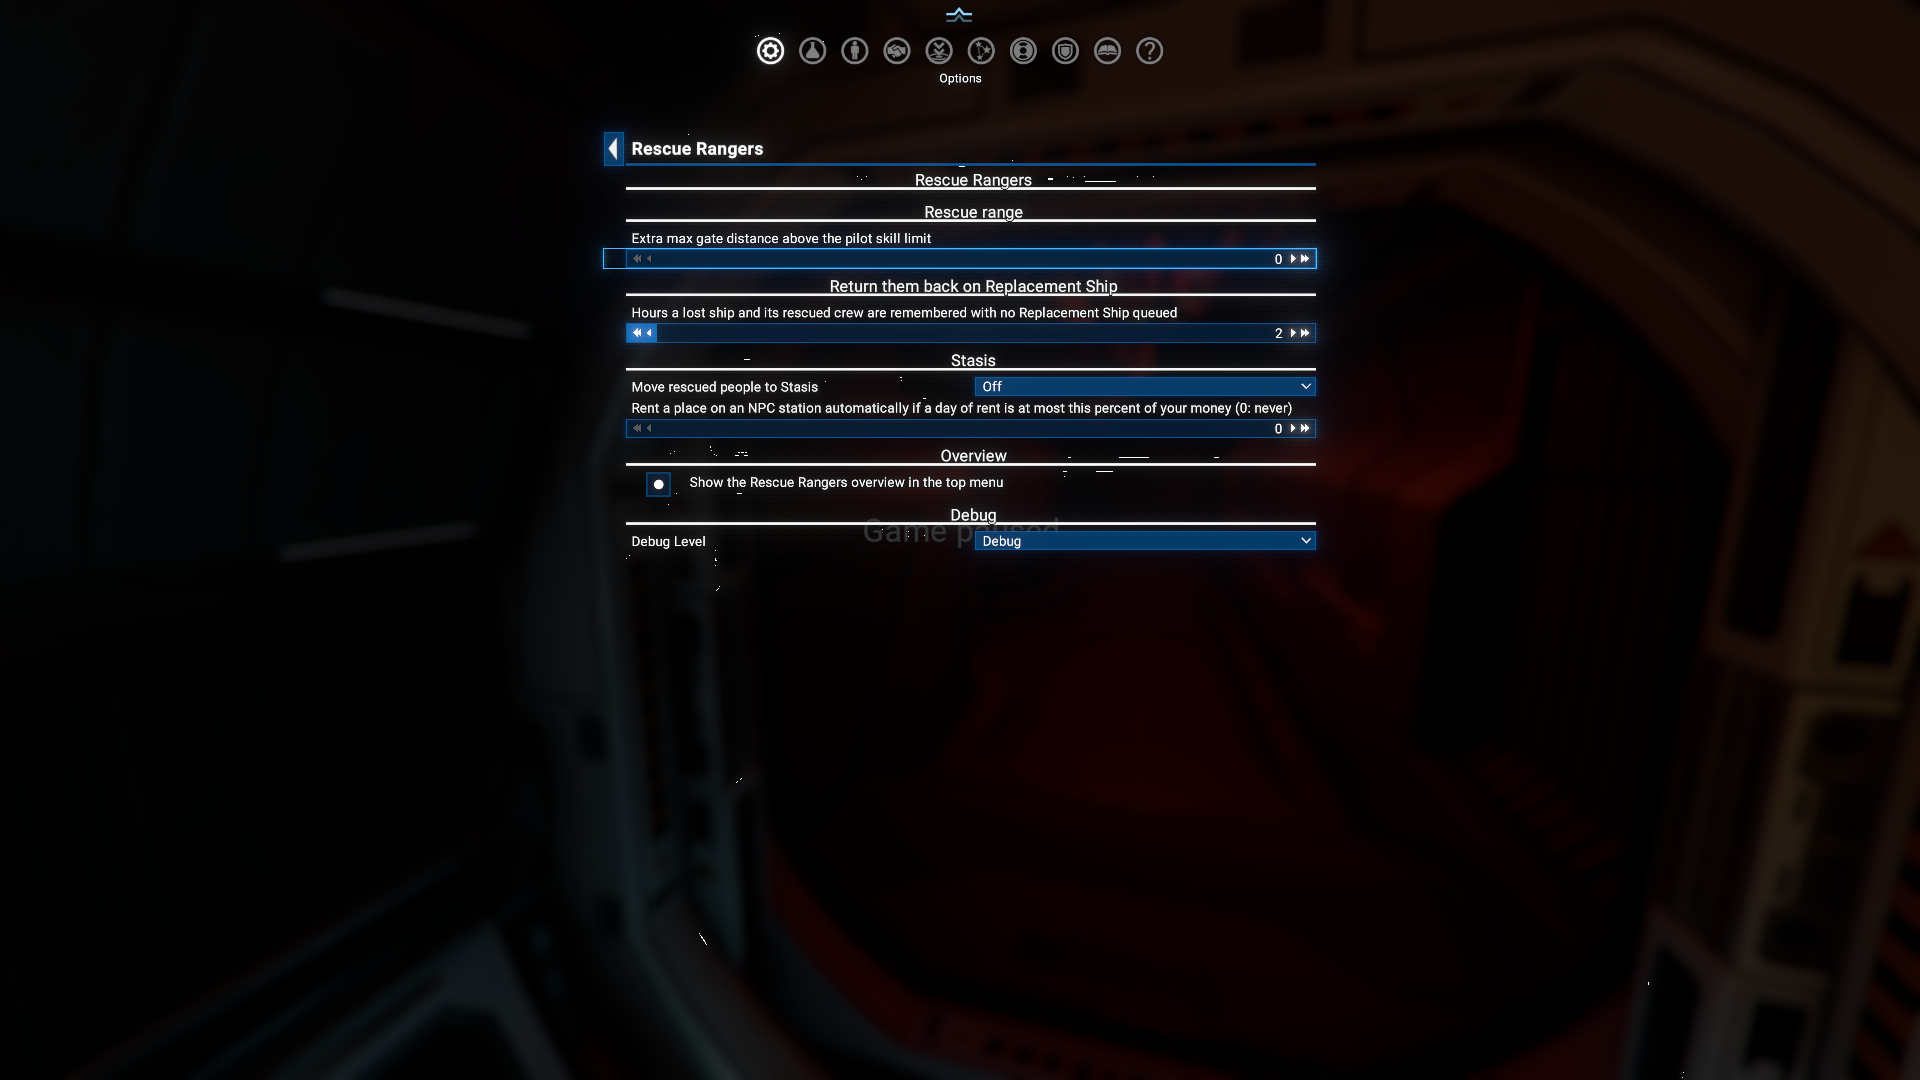
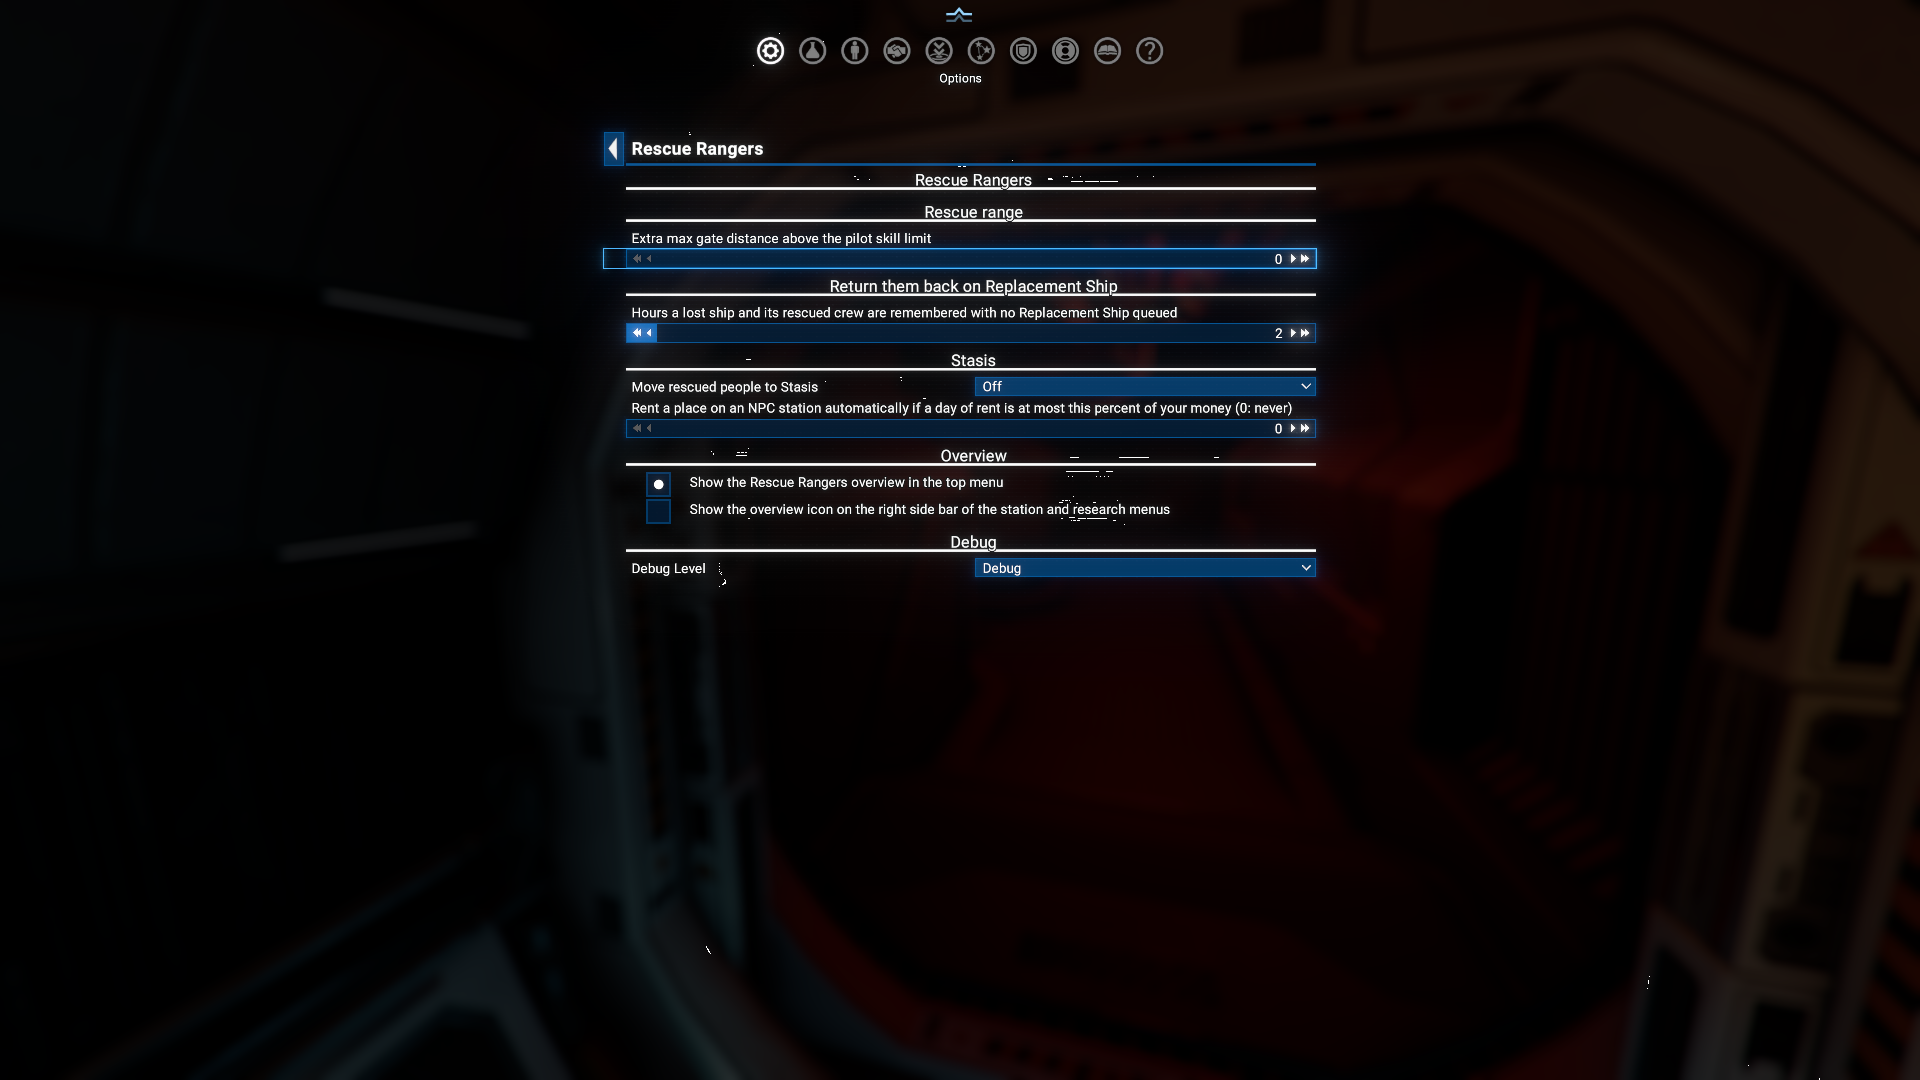
feat: version 2.01

Changed region(s): [[0.3125, 0.4583, 0.6875, 0.55], [0.5312, 0.0306, 0.5625, 0.0611]]

diff --git a/README.md b/README.md
@@ -12,7 +12,7 @@ Your ships rescue the crews of your destroyed ships from space and bring them to
 - **Return them back on Replacement Ship** - rescued crew is returned on the Replacement Ship of the ship they were lost from.
 - **Keep rescued on board as crew** - rescued people join the Rescue ship's crew right away.
 - **Stasis** - rescued people are kept on your stations or on space rented on NPC stations, instead of filling a "Dormitory" ship.
-- **Overview** - the `Rescue Rangers` overview in the top menu shows every Rescue ship, the rescue statistics, everyone rescued and each Rescue ship's settings.
+- **Overview** - the `Rescue Rangers` overview, opened from the top menu or the right-click menu of a Rescue ship, shows every Rescue ship, the rescue statistics, everyone rescued and each Rescue ship's settings.
 
 ## Requirements
 
@@ -142,7 +142,11 @@ From `1` to `24`, `2` by default. For `Return them back on Replacement Ship`: a 
 
 ### Show the Rescue Rangers overview in the top menu
 
-`Enabled` by default. Adds the `Rescue Rangers` overview to the row of top menu icons, right after the map.
+`Enabled` by default. Adds the `Rescue Rangers` overview to the row of top menu icons, right after the map. When the row is full, it switches to scrolling, see `A full top menu` below. Switching this option off frees a place in the row.
+
+### Show the overview icon on the right side bar of the station and research menus
+
+`Disabled` by default. Adds the `Rescue Rangers` overview to the right side bar of the station and research menus (`Station configuration`, `Logical station overview`, `Transaction Log`, `Research`, `Terraforming`), after the Protect Sector icon when that mod is installed. The overview opened from there keeps the bar for the same station, so a click goes back to any of those menus; opened elsewhere, it shows the bar for your headquarters.
 
 ### Move rescued people to Stasis
 
@@ -162,7 +166,7 @@ Sets how much the extension writes to the game's debug log:
 
 ## Rescue Rangers overview
 
-Open it with its icon in the top menu, right after the map. It has four tabs:
+Open it with its icon in the top menu, right after the map, with its icon on the right side bar of the station and research menus when that option is on, or with `Rescue Rangers` in the right-click menu of a Rescue ship or of a ship assisting one, which opens it on that ship. It has four tabs:
 
 - `Rescue ships` - every ship on the order, grouped by the sector it is in now, each Mimic right under its commander (hover a ship for its mode: `Sector`, `Fleet` or `Mimic`): whether it is rescuing, docked or under way; what it is doing (the person it is picking up and where, or where it takes them: home or a place in Stasis); the rescued people it has aboard; where they go next (its "Dormitory" or its own crew, with the free space left, or Stasis); and warnings when it has no place in Stasis, its "Dormitory" is lost or full, or it is full and stopped rescuing. Double-click a row, or use `Show on Map`, to see the ship on the map.
 - `Statistics` - how many crew members were ejected from your lost ships, rescued, died in space (also when their oxygen ran out far from you), picked up by other ships or stations, moved to "Dormitories" or to Stasis, joined a Rescue ship's crew and were returned on Replacement Ships; the same per Rescue ship, including the ones that are gone; and the recent events. Counting starts when the extension is first loaded in a game.
@@ -174,6 +178,14 @@ Open it with its icon in the top menu, right after the map. It has four tabs:
 ![Rescue Rangers overview, Statistics](docs/images/overview_statistics.png)
 
 ![Rescue Rangers overview, Settings](docs/images/overview_settings.png)
+
+![Rescue Rangers overview opened from the right side bar of a station](docs/images/right_side_bar.png)
+
+### A full top menu
+
+The top menu row has room for 11 icons. When the icons of the game and of your mods do not fit, Rescue Rangers switches the row to the game's own scrolling view: five icons around the current one, the others a click away on either side. The game log names the reason and the way back: switch `Show the Rescue Rangers overview in the top menu` off in `Extension Options`, and the full row returns once the rest fits. Switching the option on or off turns the scrolling on or off at once; the row takes its new shape the next time a menu draws it.
+
+![The top menu in the scrolling view](docs/images/top_menu_scrolling.png)
 
 ## Keeping rescued people in Stasis
 

diff --git a/CHANGELOG.md b/CHANGELOG.md
@@ -1,5 +1,16 @@
 # Changelog
 
+## [2.01] - 2026-10-05
+
+### Added
+
+- `Rescue Rangers` entry in the context menu of a rescue ship, and of a ship assisting one, opens the overview on that rescue ship.
+- Option to show the overview icon on the right side bar of the station and research menus (off by default).
+
+### Fixed
+
+- With many mods adding top menu icons, every menu (map, options) stopped opening: a full top menu now switches to scrolling.
+
 ## [2.00] - 2026-10-04
 
 ### Added
